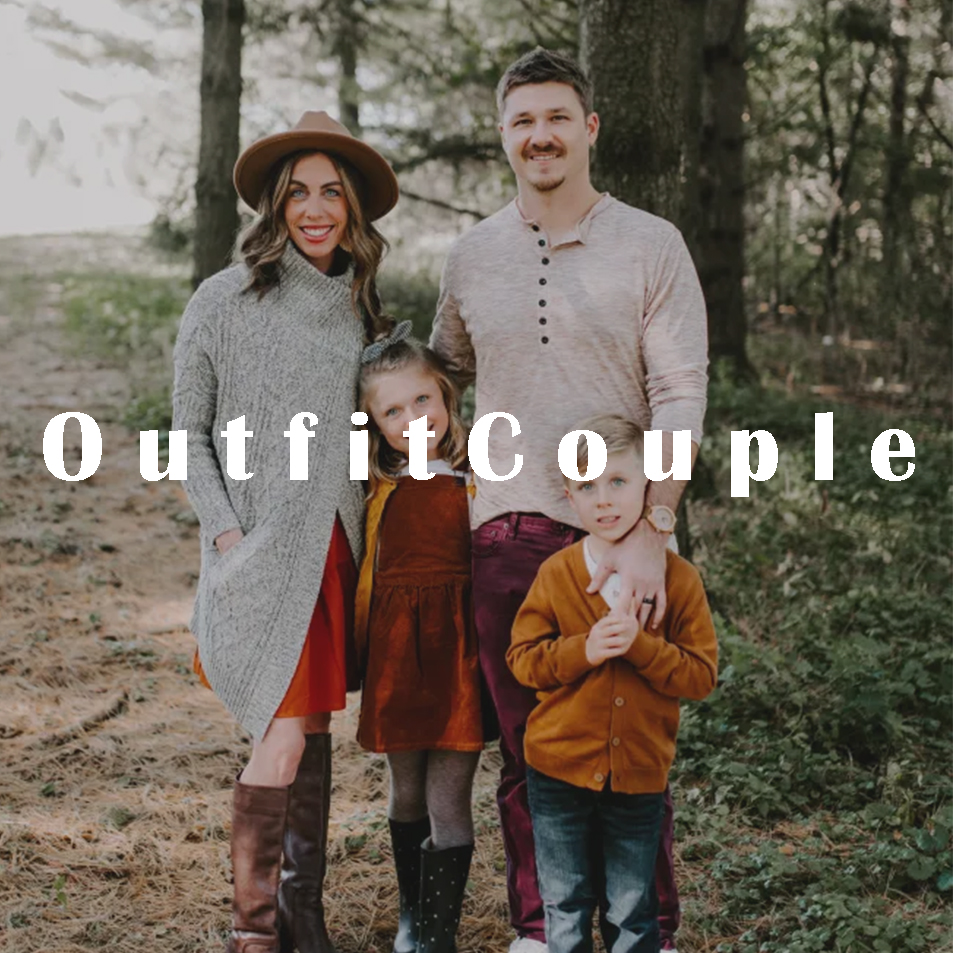
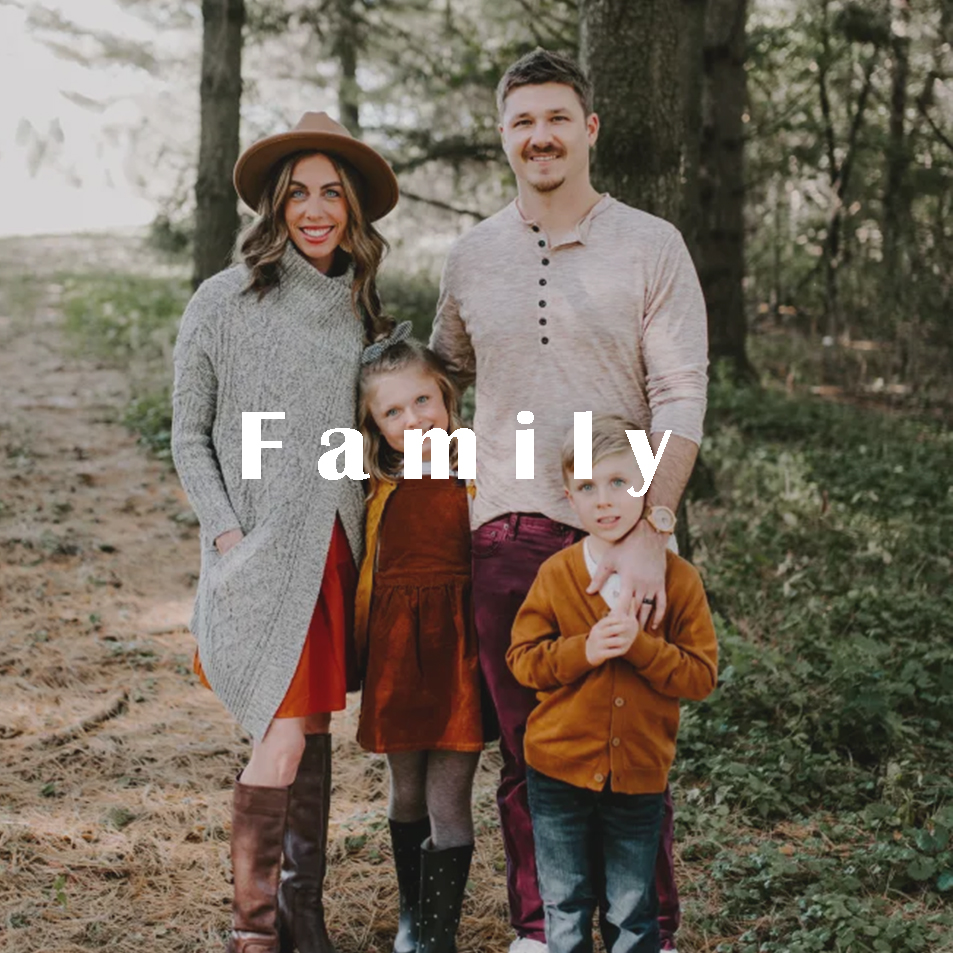
progres penyempurnaan detail warna dan tulisan

diff --git a/src/Main.css b/src/Main.css
@@ -96,6 +96,7 @@ nav {
   text-decoration: none;
   font-size: 0.9rem;
 }
+
 .nav-login-cart button:active {
   background-color: #f3f3f3;
 }
@@ -134,8 +135,13 @@ nav {
   color: #171717;
   font-size: 15px;
 }
-#form-login b {
+#form-login span {
   color: #a62c27;
+  font-size: 1rem;
+  font-weight: 800;
+}
+#form-login span:hover {
+  color: #ea1d1d;
 }
 .nav-link h5 {
   font-weight: 500;
@@ -158,7 +164,8 @@ nav {
   width: 80%;
   height: 30px;
   padding: 10px;
-  border: 1px rgb(91, 88, 88);
+  border: 1px solid #a62c27;
+  outline: none;
   border-radius: 5px;
 }
 .btn-Search {
@@ -421,6 +428,9 @@ h5.showing {
   cursor: pointer;
   z-index: 999;
 }
+.arrowUp svg:hover {
+  color: #ea1d1d;
+}
 
 /* Footer Close */
 /* Banner */
@@ -526,7 +536,8 @@ h5.showing {
   width: 60px;
   height: 35px;
   margin-right: 10px;
-  background-color: #626262;
+  background-color: #a62c27;
+  border: 1px solid #a62c27;
   border-radius: 5px;
   color: white;
   cursor: pointer;
@@ -534,16 +545,16 @@ h5.showing {
 .btn-addCart button {
   width: 120px;
   height: 40px;
-  background-color: #515151;
+  background-color: #a62c27;
   color: white;
-  border: 1px solid #515151;
+  border: 1px solid #a62c27;
   border-radius: 5px;
   cursor: pointer;
 }
 
-.btn-addCart button:active,
-.btn-size button:active {
-  background-color: #626262;
+.btn-addCart button:hover,
+.btn-size button:hover {
+  background-color: #ea1d1d;
 }
 .path-product {
   width: 1000px;
@@ -681,6 +692,9 @@ hr {
   cursor: pointer;
   border-radius: 5px;
 }
+.cartItems-total button:hover {
+  background-color: #ea1d1d;
+}
 .cartItems-promo-code {
   flex: 1;
   font-size: 16px;
@@ -716,6 +730,9 @@ hr {
   cursor: pointer;
   border-radius: 5px;
   border: 1px solid #a62c27;
+}
+.cartItems-promobox button:hover {
+  background-color: #ea1d1d;
 }
 /* CLOSE CARTITEMS */
 /* VIRTUAL-ACCOUNT */
@@ -767,13 +784,13 @@ hr {
 .side-right-page button {
   padding: 10px;
   border-radius: 5px;
-  background-color: #515151;
+  background-color: #a62c27;
   color: white;
   margin-top: 40px;
   cursor: pointer;
 }
 .side-right-page button:hover {
-  background-color: #8c8c8c;
+  background-color: #ea1d1d;
 }
 .About-page {
   max-width: 1000px;
@@ -866,5 +883,21 @@ hr {
   color: white;
   border-radius: 10px;
 }
-
 /* END MAIN */
+/* SELECT OPTION */
+.select-option {
+ width: 200px;
+  height: 30px;
+  position: absolute;
+  top: 400px;
+  right: 120px;
+  cursor: pointer;
+  border-radius: 5px;
+  padding: 5px;
+}
+
+.option-menu {
+  padding: 5px; /* Sesuaikan jarak antara teks dan tepi opsi */
+}
+
+/* END SELECT OPTION */

diff --git a/src/Components/ModalBox/ModalBox.jsx b/src/Components/ModalBox/ModalBox.jsx
@@ -1,28 +1,32 @@
 import { useState } from "react";
+import { MDBBtn, MDBModal, MDBModalDialog, MDBModalContent, MDBModalHeader, MDBModalTitle, MDBModalBody, MDBModalFooter } from "mdb-react-ui-kit";
 
- export default function SizeAlertModal() {
-  const [showModal, setShowModal] = useState(false);
+export default function ModalBox() {
+  const [staticModal, setStaticModal] = useState(false);
 
-  const toggleModal = () => {
-    setShowModal(!showModal);
-  };
+  const toggleOpen = () => setStaticModal(!staticModal);
 
-   return (
-     <div>
-       <button className="toggle-button" onClick={toggleModal}>
-         Toggle
-       </button>
-       <div className={`modal ${showModal ? "" : "off"}`}>
-         <h2>Modal Window</h2>
-         <div className="content">
-           Lorem ipsum dolor sit amet, consectetur adipisicing elit. Nobis deserunt corrupti, ut fugit magni qui quasi nisi amet repellendus non fuga omnis a sed impedit explicabo accusantium nihil doloremque consequuntur.
-         </div>
-         <div className="actions">
-           <button className="toggle-button" onClick={toggleModal}>
-             OK
-           </button>
-         </div>
-       </div>
-     </div>
-   );
- }
+  return (
+    <>
+      <MDBBtn onClick={toggleOpen}>Launch static backdrop modal</MDBBtn>
+
+      <MDBModal staticBackdrop tabIndex="-1" open={staticModal} setOpen={setStaticModal}>
+        <MDBModalDialog>
+          <MDBModalContent>
+            <MDBModalHeader>
+              <MDBModalTitle>Modal title</MDBModalTitle>
+              <MDBBtn className="btn-close" color="none" onClick={toggleOpen}></MDBBtn>
+            </MDBModalHeader>
+            <MDBModalBody>...</MDBModalBody>
+            <MDBModalFooter>
+              <MDBBtn color="secondary" onClick={toggleOpen}>
+                Close
+              </MDBBtn>
+              <MDBBtn>Understood</MDBBtn>
+            </MDBModalFooter>
+          </MDBModalContent>
+        </MDBModalDialog>
+      </MDBModal>
+    </>
+  );
+}

diff --git a/src/Category/Family.jsx b/src/Category/Family.jsx
@@ -1,13 +1,13 @@
-import CoupleBanner from "../Components/Assets/couple.jpg"
+import CoupleBanner from "../Components/Assets/couple.jpg";
 import { ShopContext } from "../Context/ShopContext";
 import { useContext } from "react";
 import ItemCategory from "../Components/Item/ItemCategory";
 import Sidebar from "../Components/Sidebar/Sidebar";
 
-export default function Couple() {
+export default function Family() {
   const { all_product } = useContext(ShopContext);
   const totalProduct = all_product.reduce((acc, product) => {
-    if (product.category === "kid") {
+    if (product.category === "family") {
       return acc + 1;
     } else {
       return acc;
@@ -22,9 +22,9 @@ export default function Couple() {
         <Sidebar />
         <div className="cloth-category">
           <h5 className="showing">
-            <span>Showing </span> 1 -{totalProduct} of the products kids
+            <span>Showing </span> 1 -{totalProduct} of the products family
           </h5>
-          <h2>Couple Family Clothing Products</h2>
+          <h2>Family Clothing Products</h2>
           <div className="cloth-item-cetegory">
             {all_product.map((item, index) => {
               if (item.category === "family") {

diff --git a/src/Pages/Allproduct.jsx b/src/Pages/Allproduct.jsx
@@ -3,11 +3,12 @@ import { ShopContext } from "../Context/ShopContext";
 import { useContext } from "react";
 import ItemCategory from "../Components/Item/ItemCategory";
 import Sidebar from "../Components/Sidebar/Sidebar";
+import SelectOption from "../Components/SelectOption/SelectOption";
 export default function Allproduct() {
   const { all_product } = useContext(ShopContext);
-const totalProduct = all_product.reduce((acc, ) => {
-  return acc + 1;
-}, 0);
+  const totalProduct = all_product.reduce((acc) => {
+    return acc + 1;
+  }, 0);
   return (
     <>
       <div className="banner">
@@ -20,6 +21,7 @@ const totalProduct = all_product.reduce((acc, ) => {
             <span>Showing </span> 1 -{totalProduct} of the products
           </h5>
           <h2>All Clothing Products</h2>
+          <SelectOption />
           <div className="cloth-item-cetegory">
             {all_product.map((item, index) => {
               return <ItemCategory key={index} id={item.id} name={item.name} image={item.image} rating={item.rating} new_price={item.new_price} old_price={item.old_price} />;

diff --git a/src/Router.jsx b/src/Router.jsx
@@ -17,7 +17,7 @@ import Allproduct from "./Pages/Allproduct";
 import NewCollection from "./Pages/NewCollection";
 import BestSeller from "./Pages/BestSeller";
 import Register from "./Pages/Reegister";
-import Couple from "./Category/Couple";
+import Family from "./Category/Family";
 const Router = createBrowserRouter([
   {
     path: "/",
@@ -59,7 +59,7 @@ const Router = createBrowserRouter([
       },
       {
         path: "/family",
-        Component: Couple,
+        Component: Family,
       },
       {
         path: "",
@@ -157,7 +157,7 @@ const Router = createBrowserRouter([
       },
       {
         path: "/family",
-        Component: Couple,
+        Component: Family,
       },
       {
         path: "",

diff --git a/src/Components/SelectOption/SelectOption.jsx b/src/Components/SelectOption/SelectOption.jsx
@@ -1,0 +1,14 @@
+
+export default function SelectOption() {
+  return (
+    <>
+      <select id="ProductOption" className="select-option">
+        <option value="volvo" className="option-menu">Newest Product</option>
+        <option value="saab" className="option-menu">Most Expensive</option>
+        <option value="opel" className="option-menu">Cheapest</option>
+        <option value="audi" className="option-menu">Alphabets A-Z</option>
+        <option value="audi" className="option-menu">Alphabets Z-A</option>
+      </select>
+    </>
+  );
+}

diff --git a/src/Components/DetailProduct/DetailProduct.jsx b/src/Components/DetailProduct/DetailProduct.jsx
@@ -3,7 +3,6 @@ import { useParams, Link } from "react-router-dom";
 import { ShopContext } from "../../Context/ShopContext";
 import Relate from "../Relate/Relate";
 import { CreateStars } from "../Rating/Rating";
-
 export default function DetailProduct() {
   const { all_product, addToCart } = useContext(ShopContext);
   const { id } = useParams();
@@ -66,6 +65,7 @@ export default function DetailProduct() {
           </div>
         </div>
       </div>
+
       <Relate value={data.category} />
     </>
   );

diff --git a/src/Category/Kids.jsx b/src/Category/Kids.jsx
@@ -24,7 +24,7 @@ export default function Kids() {
           <h5 className="showing">
             <span>Showing </span> 1 -{totalProduct} of the products kids
           </h5>
-          <h2>Children&apos;s Clothing Products</h2>
+          <h2>Kid&apos;s Clothing Products</h2>
           <div className="cloth-item-cetegory">
             {all_product.map((item, index) => {
               if (item.category === "kid") {

diff --git a/src/Pages/BestSeller.jsx b/src/Pages/BestSeller.jsx
@@ -18,7 +18,7 @@ export default function BestSeller() {
         <Sidebar />
         <div className="cloth-category">
           <h5 className="showing">
-            <span>Showing </span> 1 -{totalProduct} of the products
+            <span>Showing </span> 1 -{totalProduct} of the products best seller
           </h5>
           <h2>Best Seller Clothing Products</h2>
           <div className="cloth-item-cetegory">

diff --git a/src/Components/Sidebar/Sidebar.jsx b/src/Components/Sidebar/Sidebar.jsx
@@ -47,7 +47,7 @@ export default function Sidebar() {
             </li>
             <li onClick={handleClick}>
               <NavLink to="/family" className="nav-link">
-                <h4>Couple Family</h4>
+                <h4>Family</h4>
               </NavLink>
             </li>
           </ul>

diff --git a/src/Pages/LoginSingUp.jsx b/src/Pages/LoginSingUp.jsx
@@ -16,7 +16,7 @@ export default function LoginSingUp() {
             <p>
               Dont have an account?
               <Link to="/register" className="nav-link">
-                <b> Sign Up</b>
+                <span> Sign Up</span>
               </Link>
             </p>
 
